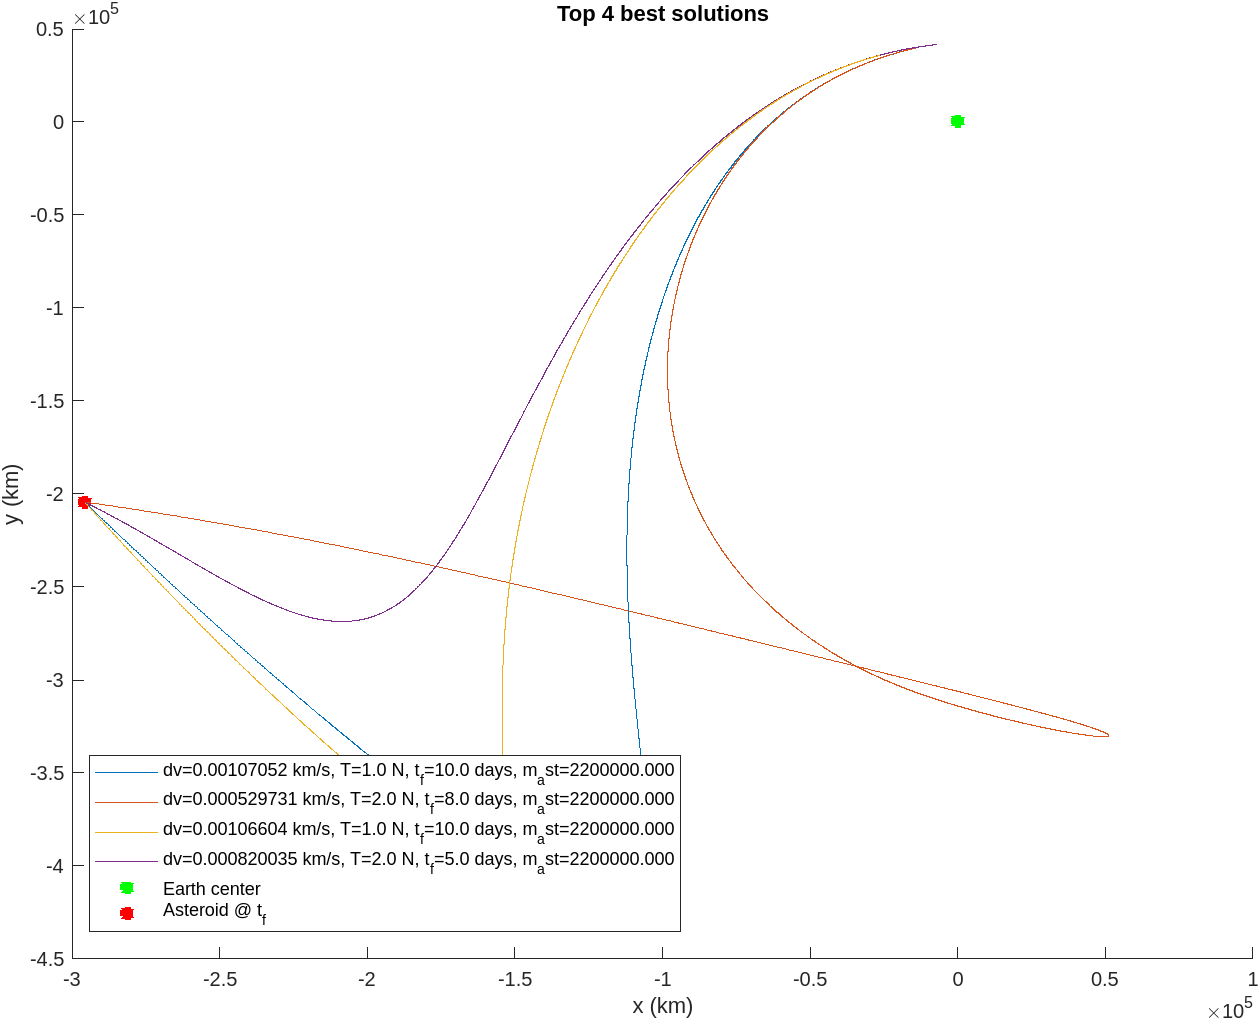
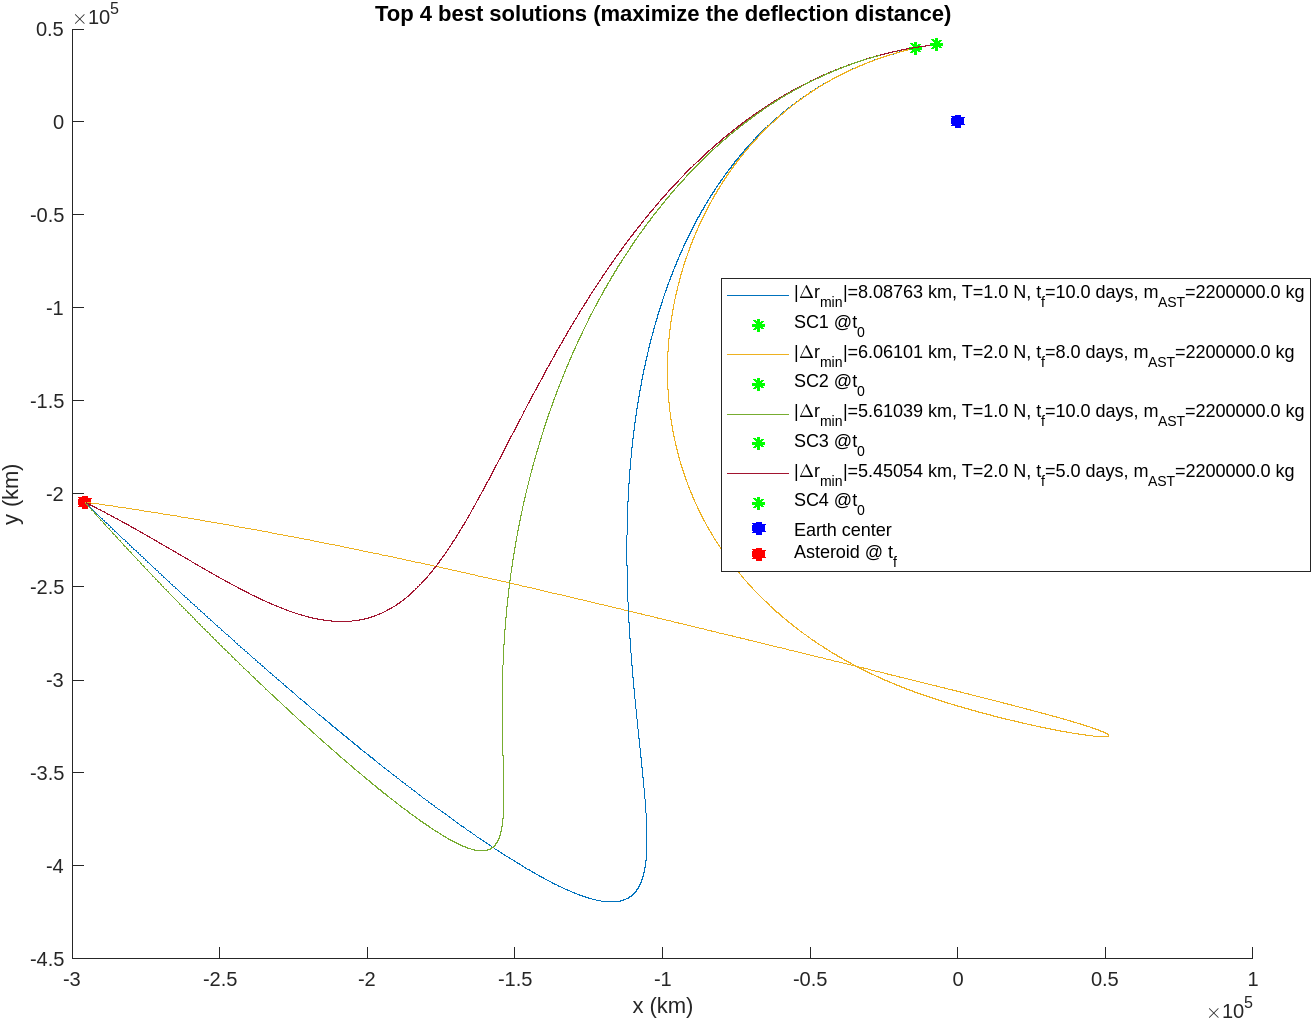
Course Project AE508: fixed the title and the legend of the top best solutions' plot

diff --git a/deflection_report.m b/deflection_report.m
@@ -84,7 +84,8 @@ for idx = 1:size(asteroid_deltavs,1)
     Xastdist = vecnorm(Xastnew(:,1:3),2,2);
     closest_approach = min(Xastdist);
     if closest_approach > ast_to_earth_min_distance
-        final_results(size(final_results,1)+1,:) = [x, closest_approach];
+        final_results(size(final_results,1)+1,:) = ...
+            [x, closest_approach - ast_to_earth_min_distance];
     end
 end
 %
@@ -99,26 +100,32 @@ for bestidx = 1:size(best_solutions,1)
     x = solutions(row(1),:);
     [~,~,t,X] = propagate(x, opts_ode);
     plot3(X(:,1),X(:,2),X(:,3)); hold on;
+    plot3(X(1,1),X(1,2),X(1,3),'g*','LineWidth',1.5);
 end
 
-msg1 = sprintf("dv=%g km/s, T=%.1f N, t_f=%.1f days, m_ast=%.3f", ...
-    best_solutions(1,5),best_solutions(1,6),best_solutions(1,7)/86400,best_solutions(1,8));
-msg2 = sprintf("dv=%g km/s, T=%.1f N, t_f=%.1f days, m_ast=%.3f", ...
-    best_solutions(2,5),best_solutions(2,6),best_solutions(2,7)/86400,best_solutions(2,8));
-msg3 = sprintf("dv=%g km/s, T=%.1f N, t_f=%.1f days, m_ast=%.3f", ...
-    best_solutions(3,5),best_solutions(3,6),best_solutions(3,7)/86400,best_solutions(3,8));
-msg4 = sprintf("dv=%g km/s, T=%.1f N, t_f=%.1f days, m_ast=%.3f", ...
-    best_solutions(4,5),best_solutions(4,6),best_solutions(4,7)/86400,best_solutions(4,8));
+msg1 = sprintf("|\\Delta{r_{min}}|=%g km, T=%.1f N, t_f=%.1f days, m_{AST}=%.1f kg", ...
+    best_solutions(1,9),best_solutions(1,6),best_solutions(1,7)/86400,best_solutions(1,8));
+msg2 = sprintf("|\\Delta{r_{min}}|=%g km, T=%.1f N, t_f=%.1f days, m_{AST}=%.1f kg", ...
+    best_solutions(2,9),best_solutions(2,6),best_solutions(2,7)/86400,best_solutions(2,8));
+msg3 = sprintf("|\\Delta{r_{min}}|=%g km, T=%.1f N, t_f=%.1f days, m_{AST}=%.1f kg", ...
+    best_solutions(3,9),best_solutions(3,6),best_solutions(3,7)/86400,best_solutions(3,8));
+msg4 = sprintf("|\\Delta{r_{min}}|=%g km, T=%.1f N, t_f=%.1f days, m_{AST}=%.1f kg", ...
+    best_solutions(4,9),best_solutions(4,6),best_solutions(4,7)/86400,best_solutions(4,8));
 
 % Plot the Earth and asteroid positions
-plot3(0,0,0, 'g*','LineWidth',3);
+plot3(0,0,0, 'b*','LineWidth',3);
 plot3(default_values.rf(1),default_values.rf(2),default_values.rf(3),'r*','LineWidth',3);
 
-title('Top 4 best solutions');
+title('Top 4 best solutions (maximize the deflection distance)');
 xlabel('x (km)');
 ylabel('y (km)');
 zlabel('z (km)');
-legend(msg1,msg2,msg3,msg4,'Earth center', 'Asteroid @ t_f', 'Location','best');
+legend( ...
+    msg1, "SC1 @t_0", ...
+    msg2, "SC2 @t_0", ...
+    msg3, "SC3 @t_0", ...
+    msg4, "SC4 @t_0", ...
+    'Earth center', 'Asteroid @ t_f', 'Location','best');
 hold off;
 
 function [v_tf,m_tf,t,X] = propagate(x, opts_ode)
